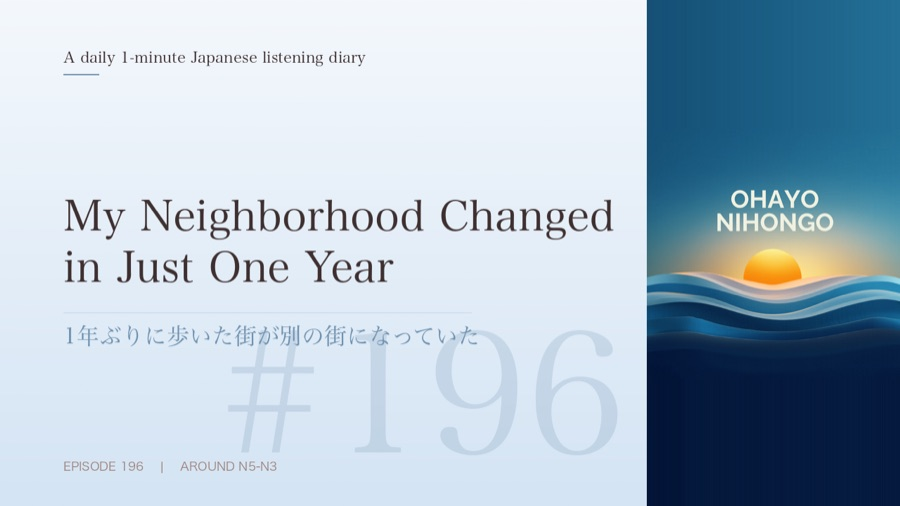
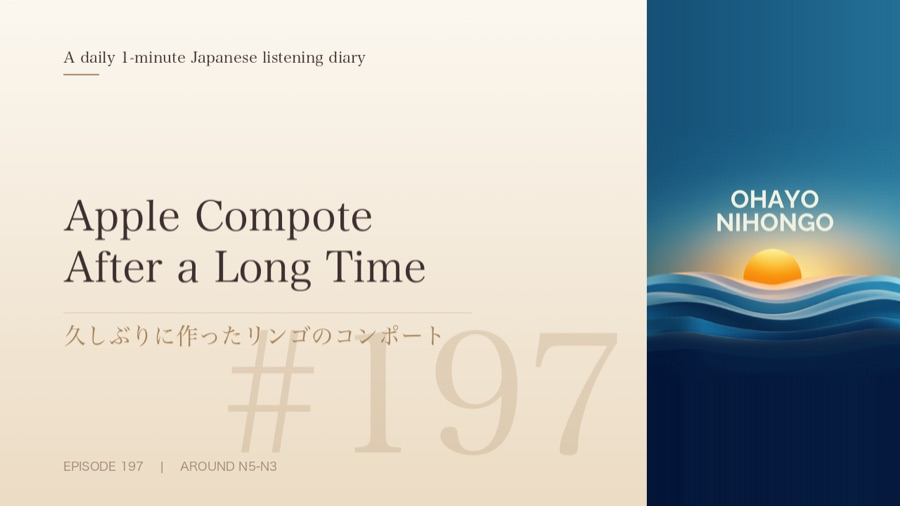
LP: today's diary → #197

diff --git a/index.html b/index.html
@@ -740,9 +740,9 @@ footer .legal{color:rgba(255,255,255,.8);text-decoration:underline;text-underlin
       <div class="pv pv-pod pv-today">
     <!-- LP_EXCERPT_START -->
     <div class="lbl">From today's diary — きょうの いっぷん</div>
-    <div class="kanji">ランニングからウォーキングに切り替えて1年ぐらいになります。</div>
-    <div class="hira">らんにんぐからうぉーきんぐにきりかえていちねんぐらいになります。</div>
-    <div class="en">I switched from running to walking about a year ago, so my range became smaller. Today I walked in a direction I hadn't visited since I stopped running, and I was shocked to see so many new buildings and shops after just one year.</div>
+    <div class="kanji">昨日、美味しそうなリンゴを見つけて買ってきたので、久しぶりにリンゴのコンポートを作りました。</div>
+    <div class="hira">きのう、おいしそうなりんごをみつけてかってきたので、ひさしぶりにりんごのこんぽーとをつくりました。</div>
+    <div class="en">I made apple compote after a long time because I found delicious-looking apples yesterday.</div>
     <!-- LP_EXCERPT_END -->
         <div class="pod-btns"><a class="pod-sp" href="https://open.spotify.com/show/0rQNvq7eaAACJxO58H0bxQ" target="_blank" rel="noopener" data-oa-event="listen_spotify"><span class="ico-play"></span>Spotify</a><a class="pod-yt" href="https://www.youtube.com/channel/UCkeY8BNsy60KhnYiJ5jteFA" target="_blank" rel="noopener" data-oa-event="watch_youtube"><span class="ico-play"></span>YouTube</a></div>
       </div>
